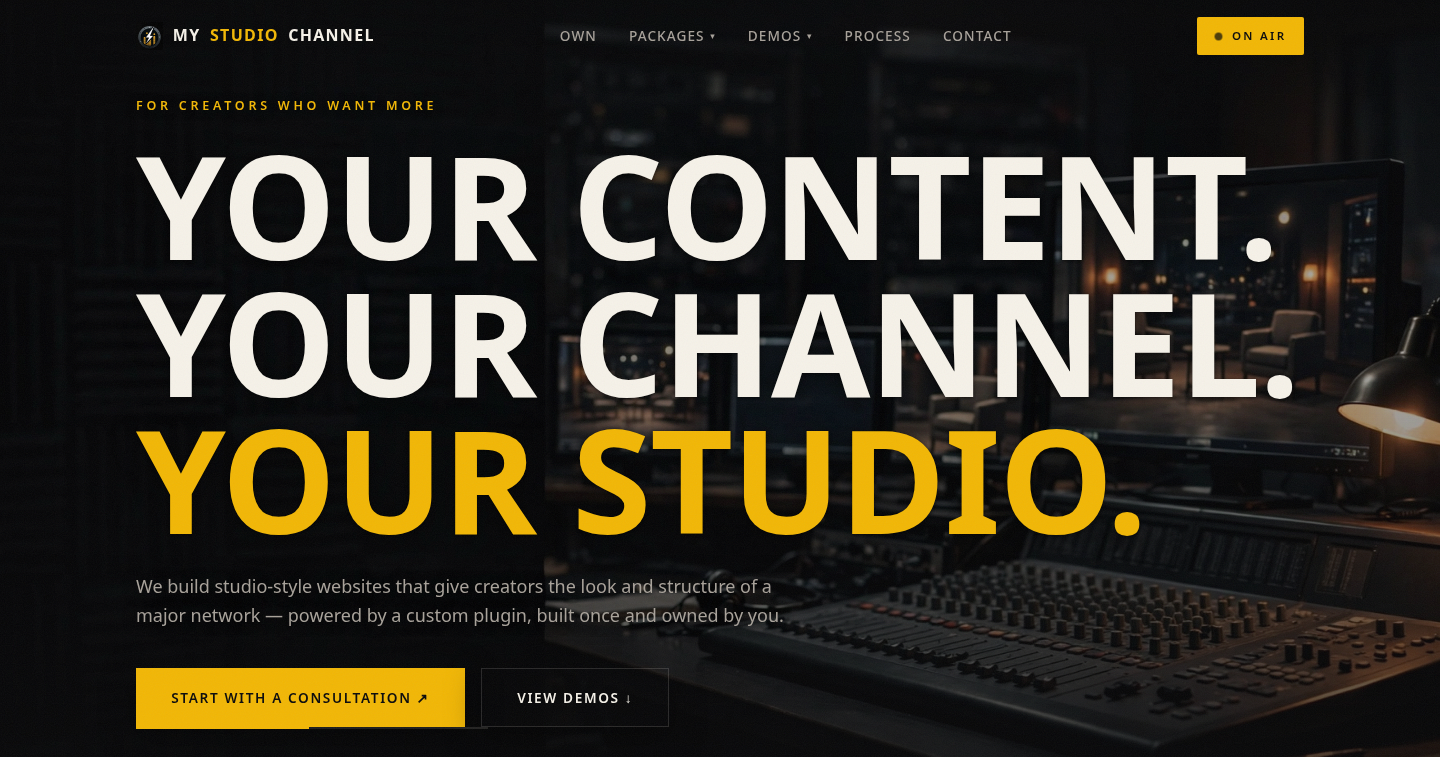
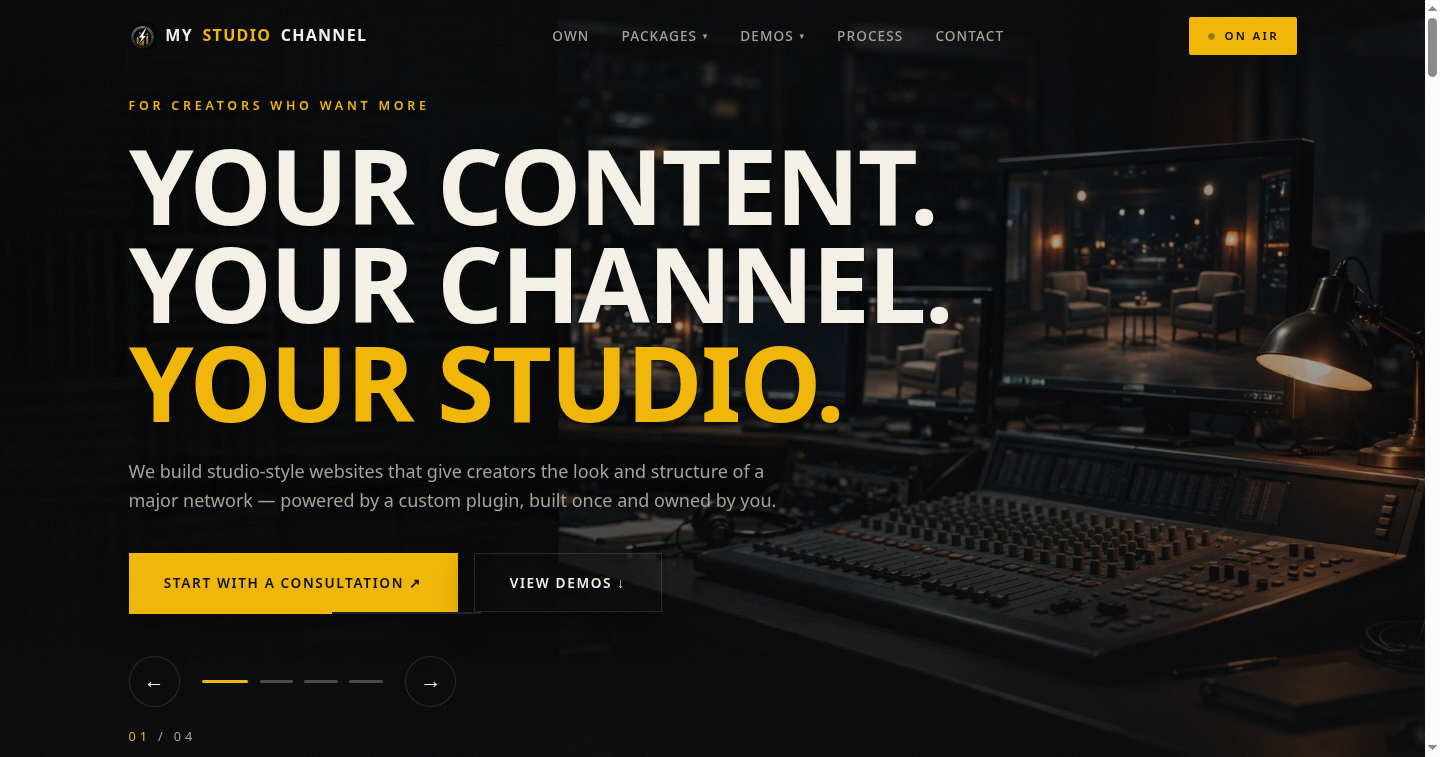
v4g+: hero polish — headline 144px→104px cap, tighter tracking, softer shadow

diff --git a/styles.css b/styles.css
@@ -143,7 +143,7 @@ body.loaded .hero-scrim{opacity:1}
 .hero-copy{grid-area:1/1;opacity:0;transform:translateY(26px);transition:opacity 900ms var(--ease),transform 900ms var(--ease);pointer-events:none}
 .hero-copy.is-active{opacity:1;transform:none;pointer-events:auto;transition-delay:280ms}
 .hero .eyebrow{opacity:0;transform:translateY(28px);transition:opacity 950ms var(--ease),transform 950ms var(--ease);text-shadow:0 1px 10px rgba(0,0,0,.65)}
-.hero h1{font-size:clamp(3.2rem,10vw,9rem);text-shadow:0 2px 26px rgba(0,0,0,.55),0 1px 4px rgba(0,0,0,.65)}
+.hero h1{font-size:clamp(3rem,7.2vw,6.5rem);letter-spacing:-.02em;text-shadow:0 2px 22px rgba(0,0,0,.5),0 1px 3px rgba(0,0,0,.6)}
 .hero h1 .hline{display:block;white-space:nowrap}
 .hero h1 .goldline{color:var(--gold)}
 .hero h1 .wd{opacity:0;transform:translateY(28px);transition:opacity 950ms var(--ease),transform 950ms var(--ease);transition-delay:calc(120ms + var(--i,0)*70ms)}
